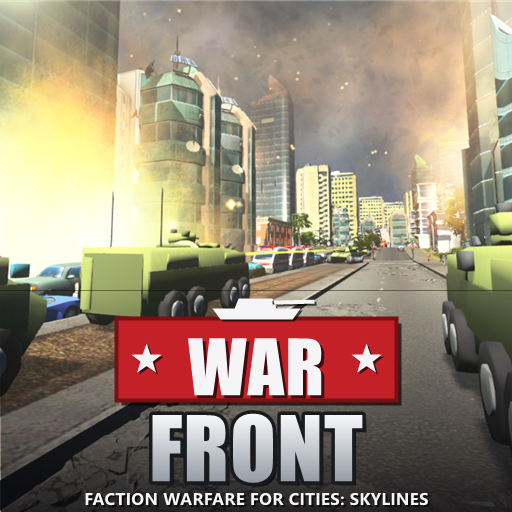
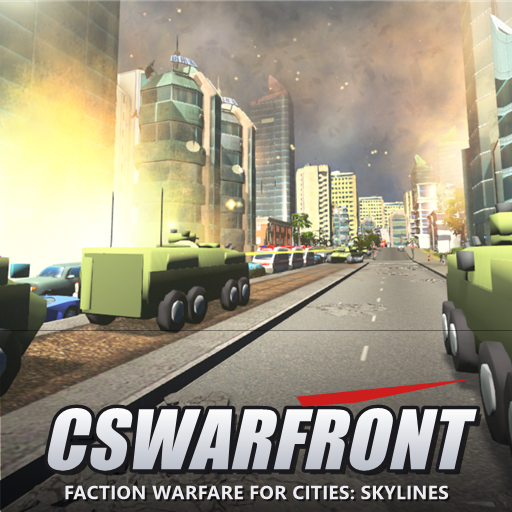
chore: mod title CS:WARFRONT; revert to italic wordmark preview

Changed region(s): [[0.0625, 0.5625, 0.9375, 1.0], [0.9375, 0.7188, 0.9688, 0.7812], [0.8438, 0.625, 0.9062, 0.6562]]

diff --git a/src/CSWarfront/Game/Mod.cs b/src/CSWarfront/Game/Mod.cs
@@ -10,7 +10,7 @@ namespace CSWarfront.Game
     /// </summary>
     public class Mod : IUserMod
     {
-        public string Name => "CS Warfront";
+        public string Name => "CS:WARFRONT"; // Task93: ユーザー指定のMODタイトル（Workshopタイトルと統一）
         public string Description =>
             "A tier-based military simulation with 5 factions (land/sea/air, bases, territory, occupation). Building the building designated in Options turns it into a military base.";
 
